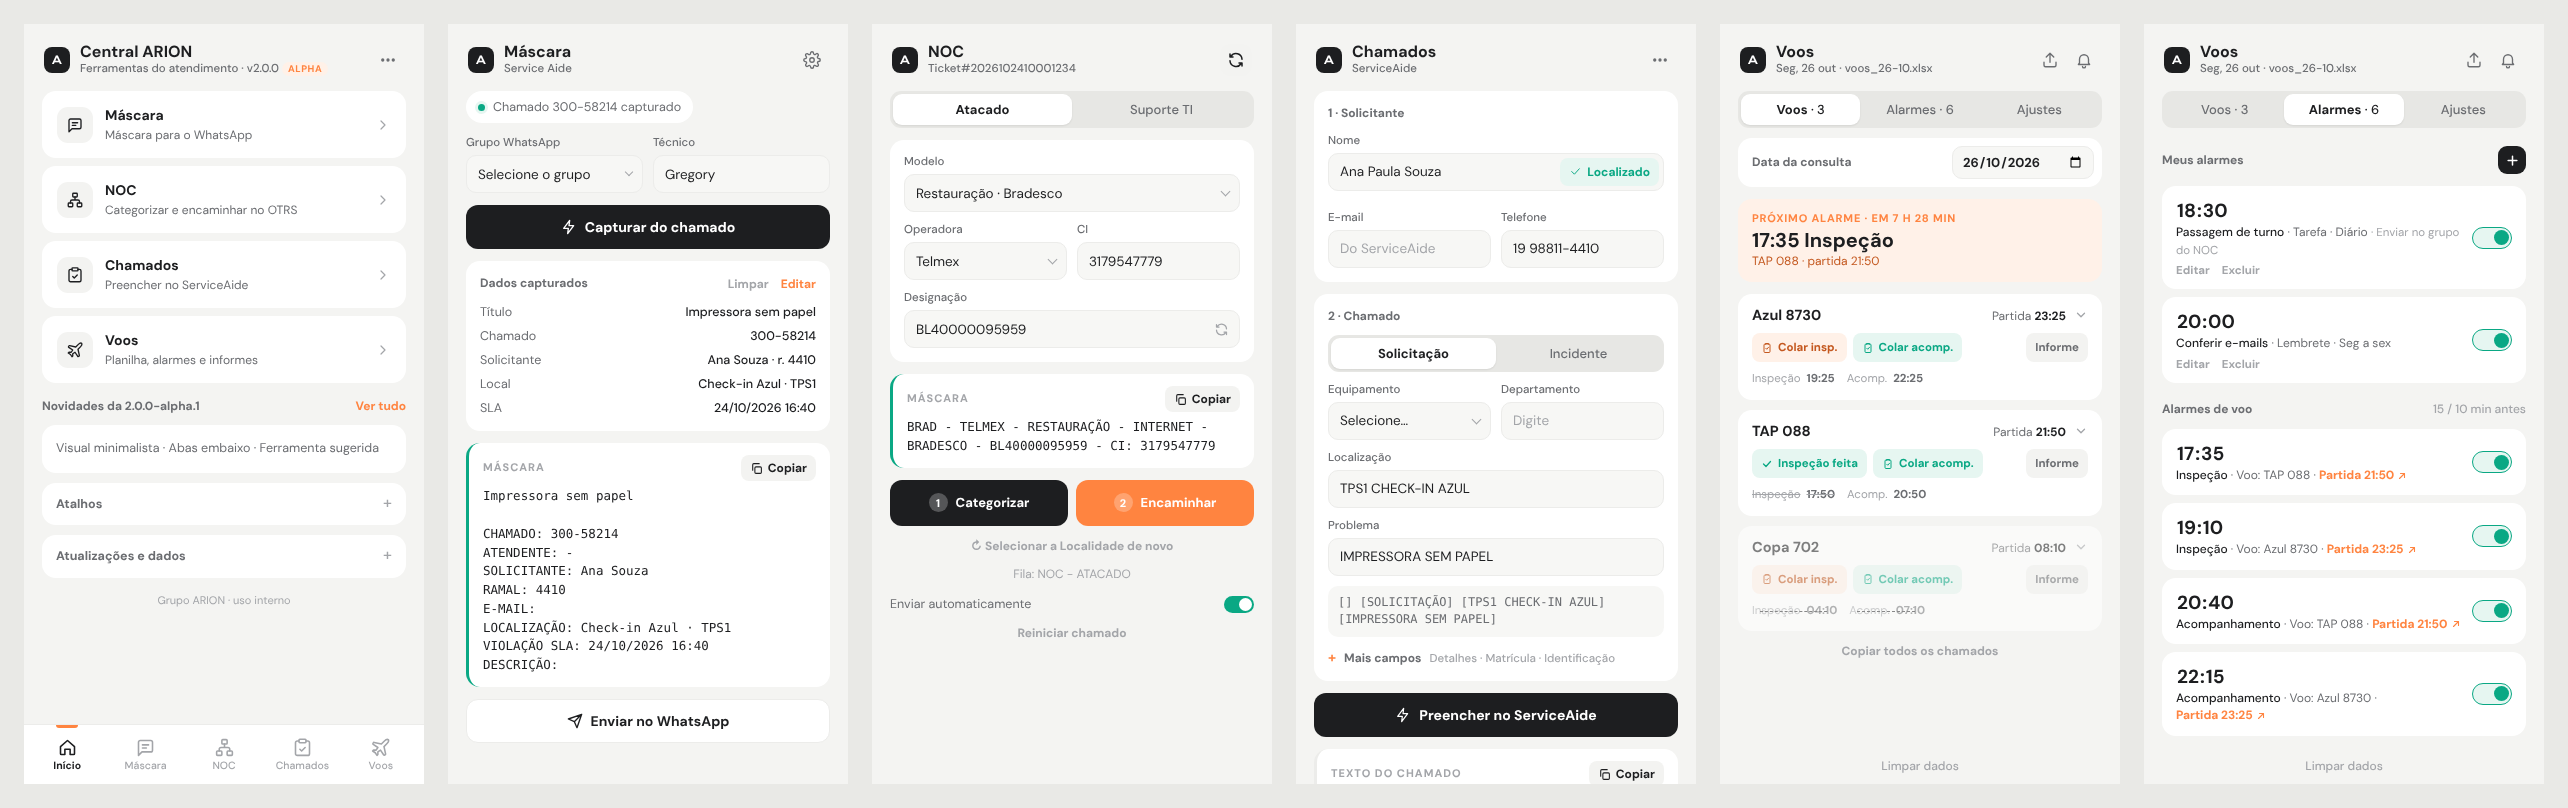
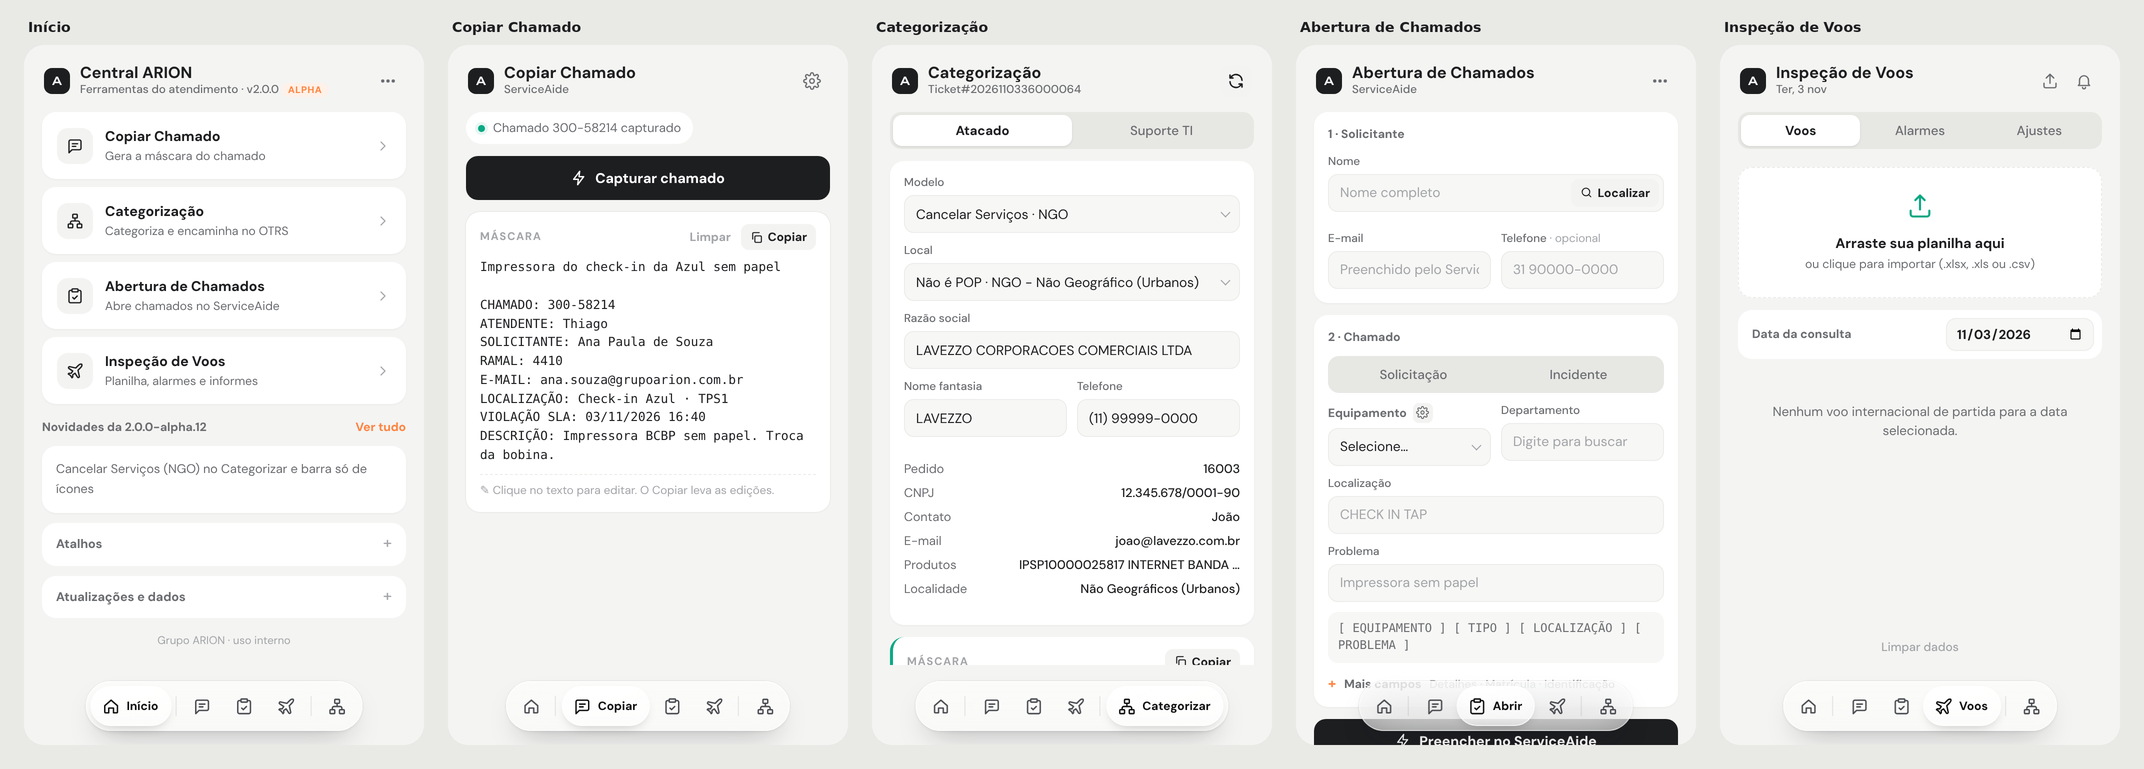
README alpha: ferramentas, barra, Cancelar Serviços NGO, migração de dados e telas novas
Claude-Session: https://claude.ai/code/session_01CUF63xom2f91mXbL5AhGQJ

diff --git a/README.md b/README.md
@@ -1,6 +1,6 @@
 # Central de Serviços ARION — Branch `alpha` (experimental)
 
-> **Versão experimental 2.0.0-alpha.12.** Barra de vidro, nomes novos, máscara editável e Cancelar Serviços (NGO) no Categorizar.
+> **Versão experimental 2.0.0-alpha.12.** Visual novo, barra rápida de vidro e Cancelar Serviços (NGO) no Categorizar.
 > Instala ao lado da versão normal (é outra extensão). A versão estável continua na branch `main`.
 
 ![Telas da versão Alpha](imagens/alpha-telas.png)
@@ -8,20 +8,32 @@
 | | |
 |---|---|
 | **Versão** | 2.0.0-alpha.12 |
+| **Navegadores** | Google Chrome, Microsoft Edge, Mozilla Firefox 128+ |
 | **Download** | [`arion-central-2.0.0-alpha.12.zip`](arion-central-2.0.0-alpha.12.zip) |
 | **Arquivo de versão** | [`versao.json`](versao.json) |
 
-### Trocar tema
+## Ferramentas
 
-Início → ⋯ → **Trocar tema**. Passe o mouse num tema para ver a Central inteira com ele. Clique para usar.
+| Aba | Ferramenta | O que faz | Site |
+|---|---|---|---|
+| Copiar | **Copiar Chamado** | Captura o chamado e gera a máscara. A máscara é editável. | ServiceAide |
+| Categorizar | **Categorização** | Categoriza e encaminha: NOC - ATACADO, ENG - SISTEMAS ou NOC - CANCELAMENTOS NGO. | OTRS |
+| Abrir | **Abertura de Chamados** | Preenche o formulário do chamado e gera o texto do chamado. | ServiceAide |
+| Voos | **Inspeção de Voos** | Lê a planilha, toca os alarmes de Inspeção e Acompanhamento e preenche os chamados. | ServiceAide |
 
-![Temas](imagens/alpha-temas.png)
+### Barra rápida
 
-### Instale
+Pílula de vidro no rodapé: **Início | Copiar · Abrir · Voos | Categorizar**.
+
+- A aba aberta mostra o nome. As outras mostram o nome ao passar o mouse.
+- Ponto verde: ferramenta do site aberto na aba.
+- `Alt+1` a `Alt+5` troca de aba. `Alt+Shift+A` abre a Central.
+
+## Instale
 
 1. Faça o download de `arion-central-2.0.0-alpha.12.zip`.
 2. Extraia em `C:\ARION\`.
-3. Abra `chrome://extensions`. Ligue **Modo do desenvolvedor**.
+3. Abra `chrome://extensions` (Edge: `edge://extensions`). Ligue **Modo do desenvolvedor**.
 4. Clique em **Carregar sem compactação**. Selecione `C:\ARION\arion-central-alpha`.
 
 ### Firefox: libere o acesso aos sites
@@ -31,9 +43,79 @@ No Firefox, o acesso ao OTRS e ao ServiceAide não vem ligado na instalação.
 1. Abra a Central. No Início, clique em **Permitir acesso**.
 2. Clique em **Permitir** na janela do Firefox.
 
-**Resultado:** NOC, Chamados e Voos leem o OTRS e o ServiceAide.
+**Resultado:** Categorização, Abertura de Chamados e Inspeção de Voos leem o OTRS e o ServiceAide.
 
-### Aviso de versão nova
+## Como usar
+
+### Copiar Chamado
+
+1. Primeira vez: clique na engrenagem. Digite seu nome de atendente. Clique em **Salvar**.
+2. Abra o chamado no ServiceAide.
+3. Clique em **Capturar chamado**.
+4. Confira a máscara. Clique no texto para editar.
+5. Clique em **Copiar**. As edições vão junto. **Limpar** apaga a máscara.
+
+### Categorização (OTRS)
+
+1. Abra o chamado no OTRS.
+2. Escolha **Atacado** ou **Suporte TI**.
+3. Confira os dados. Clique em **Categorizar**.
+4. Clique em **Encaminhar**. Depois, clique em **Mover para a fila** e confirme.
+
+**Modelos (Atacado)**
+
+| Modelo | Exemplo de máscara |
+|---|---|
+| Restauração · Não Geográficos (Urbanos) | `Não Geográficos (Urbanos) - CLARO S.A. - RESTAURAÇÃO - INTERNET - PROJETO CARREFOUR - BL300000097058 - CI: 473084` |
+| Restauração · Bradesco | `BRAD - TELEFONICA BRASIL S.A. - RESTAURAÇÃO - INTERNET - BRADESCO - BD0001222 - BRAD: 791` |
+| Restauração · Projetos BB, CEF, Correios e FUST | `Projeto FUST - TELEFONICA BRASIL S.A. - RESTAURAÇÃO - INTERNET - PROJETO FUST - VIVO.BA.BLIVR000093 - INC10412506` |
+| Reincidência · Bradesco | `[REINCIDENCIA MONITORAMENTO] - TELMEX - BRADESCO - BD500000098988 - BRAD:2950` |
+| Cancelamento | `NGO - TELEFONICA BRASIL S.A. - CANCELAMENTO - INTERNET - OP:AN TELECOM - BD0001246 - NP:15576` |
+| **Cancelar Serviços · NGO** | `Não Geográficos (Urbanos) - LAVEZZO CORPORACOES COMERCIAIS LTDA - CANCELAMENTO - INTERNET - Pedido: 16003` |
+
+- **Reincidência** e **Cancelamento** só fazem a máscara. Clique em **Copiar**.
+- **FUST:** Localidade **Projeto FUST**. Identificador INC da Vivo.
+
+**Cancelar Serviços · NGO**
+
+Chamado do SGF com o título `Cancelar Serviços do Pedido: N` (fila ATENDIMENTO).
+
+1. A Central lê do pedido: Razão social, Nome fantasia, Telefone, CNPJ, Contato, E-mail e produtos.
+2. **POP** (GRU, GIG, BSB, CNF, VCP, FLN, MEA, VIX, POA, FOR, Congonhas, Curitiba, Cuiabá, NAT): a Central avisa e não categoriza. POP não tem este processo.
+3. Fora dos POP, **Categorizar** preenche:
+   - Localidade **Não Geográficos (Urbanos)**;
+   - Razão social, Nome fantasia e Telefone;
+   - Enviar N1 = **Sim**;
+   - Título e Assunto = a máscara;
+   - Texto: *Arion - Central de Atendimento · Este ticket foi categorizado e encaminhado para a fila Service Desk.*
+4. **Encaminhar** faz a nota (Abertura chamado ISP = **Não**) e move para **NOC - CANCELAMENTOS NGO**.
+
+> **NOTA:** o campo **Local** corrige o POP à mão. Tipo (Cancelamento) e SLA (primeira opção) ainda estão em definição.
+
+### Abertura de Chamados
+
+1. Abra o formulário do chamado no ServiceAide.
+2. **1 · Solicitante:** digite o nome e clique em **Localizar**. O Telefone é opcional.
+3. **2 · Chamado:** Solicitação ou Incidente, Equipamento, Departamento, Localização e Problema.
+4. Clique em **Preencher no ServiceAide**. Confira e salve.
+5. **Copiar** captura o chamado e copia o texto no modelo da máscara.
+
+A **engrenagem** ao lado de **Equipamento** abre a lista de equipamentos: Adicionar e remover (✕).
+
+### Inspeção de Voos
+
+1. Importe a planilha do dia (`.xlsx`, `.xls` ou `.csv`).
+2. Escolha a data. Aparecem só os voos de **Partida Internacional**.
+3. Os alarmes tocam 4 h antes (Inspeção) e 1 h antes (Acompanhamento), mesmo com a Central fechada.
+4. Com o formulário aberto no ServiceAide, clique em **Colar**.
+
+### Trocar tema
+
+Início → ⋯ → **Trocar tema**: Claro, Escuro, Areia, Noite ou Alto contraste. Passe o mouse para ver. Clique para aplicar.
+
+![Temas](imagens/alpha-temas.png)
+
+## Aviso de versão nova
 
 A Central lê o [`versao.json`](versao.json) desta branch a cada 6 horas e ao abrir o navegador.
 
@@ -47,10 +129,41 @@ Para atualizar: extraia o zip novo na mesma pasta. Clique em recarregar em `chro
 
 > **NOTA:** A extensão não se troca sozinha. O Chrome não permite isso no modo "Carregar sem compactação".
 
-### Publique uma versão nova (responsável)
+## Levar equipamentos e localizações
+
+Os dados ficam no navegador, em cada extensão. Para adicionar uma lista:
+
+1. Abra `chrome://extensions`. No card **ARION Central**, clique em **service worker**.
+2. Na aba **Console**, cole (troque as listas pelas suas):
+
+```js
+const novosEq  = ["CUPPS", "BCBP", "TOTEM"];
+const novasLoc = ["CHECK IN TAP", "PORTÃO 12"];
+chrome.storage.local.get(['equips', 'locsUsadas'], ({ equips = [], locsUsadas = [] }) => {
+  const base = equips.length ? equips : ['CUPPS', 'CUSS', 'FIDS'];
+  const unir = a => [...new Map(a.map(x => [x.trim().toUpperCase(), x.trim()])).values()];
+  chrome.storage.local.set({ equips: unir([...base, ...novosEq]), locsUsadas: unir([...locsUsadas, ...novasLoc]) }, () => console.log('Pronto'));
+});
+```
+
+3. Feche e abra a Central.
+
+Firefox: `about:debugging` → Este Firefox → ARION Central → **Inspecionar**.
+
+## Versões (alpha)
+
+| Versão | Mudanças |
+|---|---|
+| **2.0.0-alpha.12** | Cancelar Serviços · NGO no Categorizar (POP, nota e fila NOC - CANCELAMENTOS NGO); barra só de ícones. |
+| 2.0.0-alpha.11 | Barra de vidro; nomes novos; Copiar Chamado só com a máscara editável; engrenagem de Equipamento; Telefone opcional; FUST em Projetos; textos revisados. |
+| 2.0.0-alpha.10 | Firefox acha os scripts da página (caminho a partir da raiz). |
+| 2.0.0-alpha.9 | Copiar da Abertura de Chamados captura e copia. |
+| 2.0.0-alpha.8 | Texto do chamado no modelo da máscara. |
+
+## Publique uma versão nova (responsável)
 
 1. Mude `version` e `version_name` no `manifest.json`.
-2. Gere o zip e envie para esta branch.
+2. Gere o zip (com a pasta `arion-central-alpha` dentro) e envie para esta branch.
 3. Mude `versao`, `nome`, `download` e `notas` no `versao.json`. Envie.
 
 **Resultado:** em até 6 horas, todos recebem o aviso.
